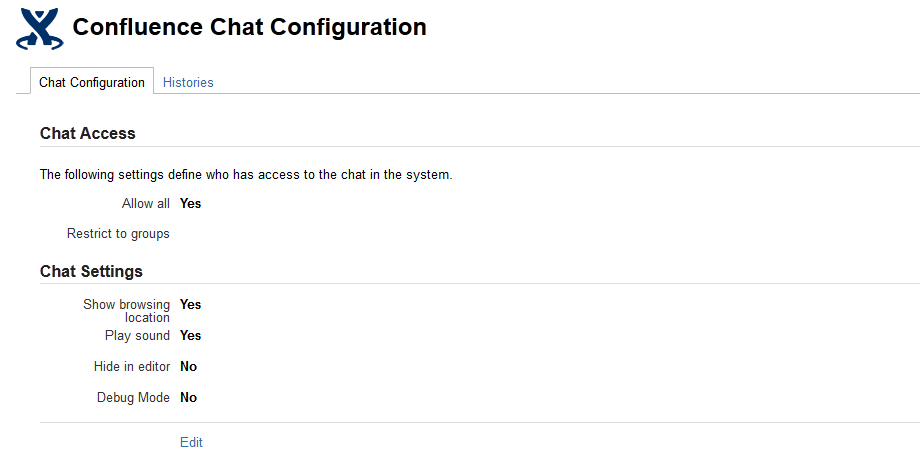
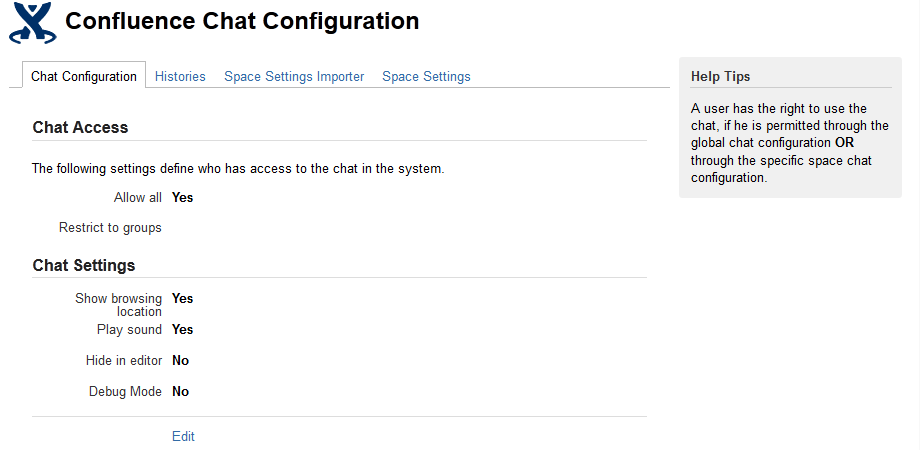
add space settings overview improve configuration importer

diff --git a/src/main/resources/confluence/chat/css/admin.css b/src/main/resources/confluence/chat/css/admin.css
@@ -26,3 +26,7 @@
 body #chat-configuration .chat-config-global-info  * {
     color: #666666;
 }
+.chat-config-tools-spaces {
+    width: 389px;
+    height: 117px;
+}

diff --git a/src/main/java/confluence/chat/actions/AbstractChatAction.java b/src/main/java/confluence/chat/actions/AbstractChatAction.java
@@ -21,7 +21,7 @@ import javax.servlet.http.HttpSession;
 import org.apache.commons.lang.StringUtils;
 
 public abstract class AbstractChatAction extends ConfluenceActionSupport implements Beanable {
-    
+
     private static String PARAM_MESSAGE = "message";
     private static String PARAM_LAST_REQUEST = "lr";
     private static String PARAM_MOUSE_MOVE = "mm";
@@ -34,13 +34,13 @@ public abstract class AbstractChatAction extends ConfluenceActionSupport impleme
     private ChatReplyTransformer chatReplyTransformer;
     private PermissionManager permissionManager;
     private Date newRequestDate = null;
-    
+
     public AbstractChatAction(ChatManager chatManager, PageManager pageManager, PermissionManager permissionManager) {
         this.chatManager = chatManager;
         this.pageManager = pageManager;
         this.permissionManager = permissionManager;
         chatReplyTransformer = new ChatReplyTransformer(pageManager, permissionManager);
-        
+
     }
 
     /**
@@ -56,7 +56,7 @@ public abstract class AbstractChatAction extends ConfluenceActionSupport impleme
             HttpSession session = request.getSession();
             getChatManager().setOnlineStatus(getRemoteUser(), ChatStatus.NO_CHANGE);
             ChatUser chatUser = getChatManager().getChatUser(getRemoteUser());
-            
+
             if (chatUser.getPreferences().getShowCurrentSite() && chatManager.getChatConfiguration().getShowWhereIam()) {
                 String parameterPageId = request.getParameter("pageId");
                 if (StringUtils.isNumeric(parameterPageId)) {
@@ -67,13 +67,13 @@ public abstract class AbstractChatAction extends ConfluenceActionSupport impleme
                 } else {
                     chatUser.setCurrentSite(request.getParameter("currentUrl"), request.getParameter("currentTitle"));
                 }
-                
+
             } else {
                 chatUser.removeCurrentSite();
             }
-            
+
             ChatBoxMap chatBoxes = getChatManager().getChatBoxes(getRemoteUser());
-            
+
             Iterator<String> iterator = chatBoxes.keySet().iterator();
             while (iterator.hasNext()) {
                 String chatBoxId = iterator.next();
@@ -101,7 +101,7 @@ public abstract class AbstractChatAction extends ConfluenceActionSupport impleme
             }
             ChatMessageList messagesSince = chatBox.getMessagesSince(date);
             Collections.reverse(messagesSince);
-            
+
             for (int i = 0; i < messagesSince.size(); i++) {
                 ChatMessage message = messagesSince.get(i);
                 this.setNewRequestDate(message.getSenddate());
@@ -110,7 +110,7 @@ public abstract class AbstractChatAction extends ConfluenceActionSupport impleme
         }
         chatManager.manageHistory(chatBox, AuthenticatedUserThreadLocal.getUser());
     }
-    
+
     public final String close() throws Exception {
         if (hasChatAccess()) {
             HttpServletRequest request = ServletActionContext.getRequest();
@@ -121,7 +121,7 @@ public abstract class AbstractChatAction extends ConfluenceActionSupport impleme
         }
         return SUCCESS;
     }
-    
+
     public final Boolean delete() throws Exception {
         if (hasChatAccess()) {
             HttpServletRequest request = ServletActionContext.getRequest();
@@ -133,7 +133,7 @@ public abstract class AbstractChatAction extends ConfluenceActionSupport impleme
         }
         return false;
     }
-    
+
     public final String heartbeat() throws Exception {
         if (hasChatAccess()) {
             ChatUser chatUser = getChatManager().getChatUser(getRemoteUser());
@@ -155,7 +155,7 @@ public abstract class AbstractChatAction extends ConfluenceActionSupport impleme
         }
         return SUCCESS;
     }
-    
+
     public final String send() throws Exception {
         if (hasChatAccess()) {
             HttpServletRequest request = ServletActionContext.getRequest();
@@ -167,13 +167,13 @@ public abstract class AbstractChatAction extends ConfluenceActionSupport impleme
         }
         return SUCCESS;
     }
-    
+
     @Override
     public Object getBean() {
         Map<String, Object> bean = new HashMap<String, Object>();
         if (hasChatAccess()) {
             bean.put("lr", getNewRequestDate().getTime());
-            
+
             if (!getChatBoxMap().isEmpty()) {
                 List<Map> chatboxes = new ArrayList<Map>();
                 Iterator<String> iterator = getChatBoxMap().keySet().iterator();
@@ -195,7 +195,7 @@ public abstract class AbstractChatAction extends ConfluenceActionSupport impleme
         }
         return chatBoxMap;
     }
-    
+
     private Date getLastRequestDate() {
         HttpServletRequest request = ServletActionContext.getRequest();
         String lr = request.getParameter(PARAM_LAST_REQUEST);
@@ -213,7 +213,7 @@ public abstract class AbstractChatAction extends ConfluenceActionSupport impleme
         }
         return date;
     }
-    
+
     private Boolean isMouseMoved() {
         HttpServletRequest request = ServletActionContext.getRequest();
         return "true".equals(request.getParameter(PARAM_MOUSE_MOVE));
@@ -256,15 +256,20 @@ public abstract class AbstractChatAction extends ConfluenceActionSupport impleme
     public ChatReplyTransformer getChatReplyTransformer() {
         return chatReplyTransformer;
     }
-    
-    protected Boolean hasChatAccess() {
+
+    public Boolean hasChatAccess() {
         HttpServletRequest request = ServletActionContext.getRequest();
         return chatManager.hasChatAccess(getRemoteUser(), request.getParameter("spaceKey"));
     }
-    
+
     private void setNewRequestDate(Date senddate) {
         if (senddate.after(getNewRequestDate())) {
             this.newRequestDate = senddate;
         }
+    }
+
+    public List<ChatUser> getOnlineUsers() {
+        HttpServletRequest request = ServletActionContext.getRequest();
+        return chatManager.getOnlineUsers(request.getParameter("spaceKey"));
     }
 }

diff --git a/src/main/java/confluence/chat/config/AutoConfigureMultipleSpacesAction.java b/src/main/java/confluence/chat/config/AutoConfigureMultipleSpacesAction.java
@@ -6,7 +6,6 @@ package confluence.chat.config;
 
 import com.atlassian.confluence.spaces.Space;
 import com.atlassian.confluence.spaces.SpaceManager;
-import com.atlassian.xwork.RequireSecurityToken;
 import com.opensymphony.webwork.ServletActionContext;
 import confluence.chat.manager.ChatManager;
 import confluence.chat.utils.ChatUtils;
@@ -28,25 +27,31 @@ public class AutoConfigureMultipleSpacesAction extends ViewConfigurationAction {
         this.spaceManager = spaceManager;
     }
 
-    
     @Override
     public String execute() throws Exception {
 
         int configured = 0;
-
         HttpServletRequest request = ServletActionContext.getRequest();
         if (request.getParameterValues("space") != null) {
             boolean allowAll = StringUtils.isNotEmpty(request.getParameter("allowAll"));
-            List<String> groups = ChatUtils.stringToList(request.getParameter("groups"));
-            String[] spaces = request.getParameterValues("space");
-            for (int i = 0; i < spaces.length; i++) {
-                Space space = spaceManager.getSpace(spaces[i]);
-                if (space != null) {
-                    configured++;
-                    ChatSpaceConfiguration config = getChatManager().getChatSpaceConfiguration(space.getKey());
-                    config.setAllowAll(allowAll);
-                    config.setGroups(groups);
-                    getChatManager().setChatSpaceConfiguration(config, space.getKey());
+            boolean overwriteAllowAll = StringUtils.isNotEmpty(request.getParameter("overwriteAllowAll"));
+            boolean overwriteGroups = StringUtils.isNotEmpty(request.getParameter("overwriteGroups"));
+            if (overwriteAllowAll || overwriteGroups) {
+                List<String> groups = ChatUtils.stringToList(request.getParameter("groups"));
+                String[] spaces = request.getParameterValues("space");
+                for (int i = 0; i < spaces.length; i++) {
+                    Space space = spaceManager.getSpace(spaces[i]);
+                    if (space != null) {
+                        configured++;
+                        ChatSpaceConfiguration config = getChatManager().getChatSpaceConfiguration(space.getKey());
+                        if (overwriteAllowAll) {
+                            config.setAllowAll(allowAll);
+                        }
+                        if (overwriteGroups) {
+                            config.setGroups(groups);
+                        }
+                        getChatManager().setChatSpaceConfiguration(config, space.getKey());
+                    }
                 }
             }
 
@@ -54,13 +59,13 @@ public class AutoConfigureMultipleSpacesAction extends ViewConfigurationAction {
         if (configured > 0) {
             addActionMessage(getText("chat.config.import.success", Arrays.asList(configured)));
         } else {
-            addActionError(getText("chat.config.import.nospace"));
+            addActionError(getText("chat.config.import.error"));
         }
         return super.execute();
     }
 
     @Override
     public String getActiveTab() {
-        return "tools";
+        return "spaceimporter";
     }
 }

diff --git a/src/main/java/confluence/chat/config/AbstractChatConfigAction.java b/src/main/java/confluence/chat/config/AbstractChatConfigAction.java
@@ -12,20 +12,22 @@ abstract class AbstractChatConfigAction extends ConfluenceActionSupport {
 
     private final ChatManager chatManager;
     private String accessGroupsCSV;
-    private String activeTab ;
+    private String activeTab;
 
     public AbstractChatConfigAction(ChatManager chatManager) {
         this.chatManager = chatManager;
-        
+
     }
 
     @Override
     public String execute() throws Exception {
         activeTab = getActiveTab();
-        this.accessGroupsCSV = "";
-        List<String> groups = getChatManager().getChatConfiguration().getGroups();
-        this.accessGroupsCSV = ChatUtils.listToString(groups);
+        this.accessGroupsCSV = getGroups(getChatManager().getChatConfiguration());
         return SUCCESS;
+    }
+
+    public String getGroups(Configuration config) {
+        return ChatUtils.listToString(config.getGroups());
     }
 
     public Boolean getAllowAllUsers() {
@@ -68,7 +70,7 @@ abstract class AbstractChatConfigAction extends ConfluenceActionSupport {
         }
         return boxes;
     }
-    
+
     abstract public String getActiveTab();
 
     /**
@@ -77,5 +79,4 @@ abstract class AbstractChatConfigAction extends ConfluenceActionSupport {
     public ChatManager getChatManager() {
         return chatManager;
     }
-    
 }

diff --git a/src/main/java/confluence/chat/actions/ChatBarAction.java b/src/main/java/confluence/chat/actions/ChatBarAction.java
@@ -1,35 +1,17 @@
 package confluence.chat.actions;
 
-import com.atlassian.confluence.core.ConfluenceActionSupport;
-import com.opensymphony.webwork.ServletActionContext;
+import com.atlassian.confluence.pages.PageManager;
+import com.atlassian.confluence.security.PermissionManager;
 import confluence.chat.manager.ChatManager;
-import javax.servlet.http.HttpServletRequest;
 
-public class ChatBarAction extends ConfluenceActionSupport {
+public class ChatBarAction extends AbstractChatAction {
 
-    private final ChatManager chatManager;
-
-    public ChatBarAction(ChatManager chatManager) {
-        this.chatManager = chatManager;
+    public ChatBarAction(ChatManager chatManager, PageManager pageManager, PermissionManager permissionManager) {
+        super(chatManager, pageManager, permissionManager);
     }
 
     @Override
     public final String execute() throws Exception {
         return SUCCESS;
-    }
-
-    /**
-     * @return the chatManager
-     */
-    public ChatManager getChatManager() {
-        return chatManager;
-    }
-
-    public Boolean hasChatAccess() {
-
-        HttpServletRequest request = ServletActionContext.getRequest();
-
-
-        return chatManager.hasChatAccess(getRemoteUser(), request.getParameter("spaceKey"));
     }
 }

diff --git a/src/main/java/confluence/chat/actions/GetOnlineUserAction.java b/src/main/java/confluence/chat/actions/GetOnlineUserAction.java
@@ -2,11 +2,9 @@ package confluence.chat.actions;
 
 import com.atlassian.confluence.pages.PageManager;
 import com.atlassian.confluence.security.PermissionManager;
-import com.opensymphony.webwork.ServletActionContext;
 import confluence.chat.manager.ChatManager;
 import java.util.HashMap;
 import java.util.Map;
-import javax.servlet.http.HttpServletRequest;
 
 public class GetOnlineUserAction extends AbstractChatAction {
 
@@ -21,9 +19,8 @@ public class GetOnlineUserAction extends AbstractChatAction {
 
     @Override
     public Object getBean() {
-        HttpServletRequest request = ServletActionContext.getRequest();
         Map<String, Object> bean = new HashMap<String, Object>();
-        bean.put("users", getChatReplyTransformer().chatUserListToMap(getRemoteUser(), getChatManager().getOnlineUsers(request.getParameter("spaceKey"))));
+        bean.put("users", getChatReplyTransformer().chatUserListToMap(getRemoteUser(), getOnlineUsers()));
         return bean;
     }
 }

diff --git a/src/main/java/confluence/chat/actions/ChatStartAction.java b/src/main/java/confluence/chat/actions/ChatStartAction.java
@@ -4,9 +4,9 @@
  */
 package confluence.chat.actions;
 
-import confluence.chat.manager.ChatManager;
 import com.atlassian.confluence.pages.PageManager;
 import com.atlassian.confluence.security.PermissionManager;
+import confluence.chat.manager.ChatManager;
 
 /**
  *
